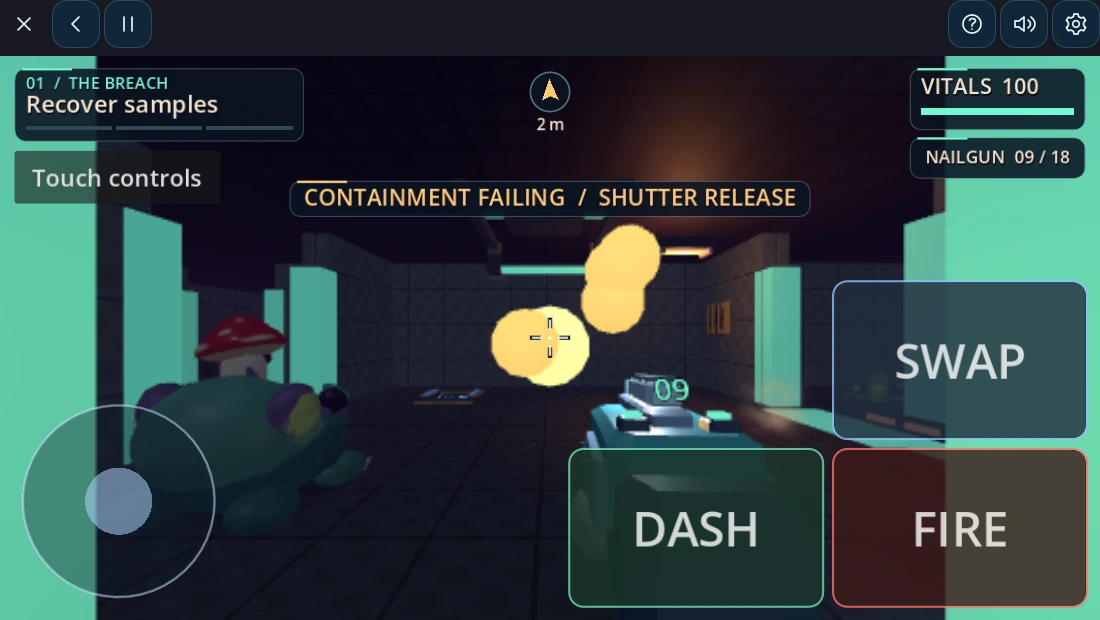
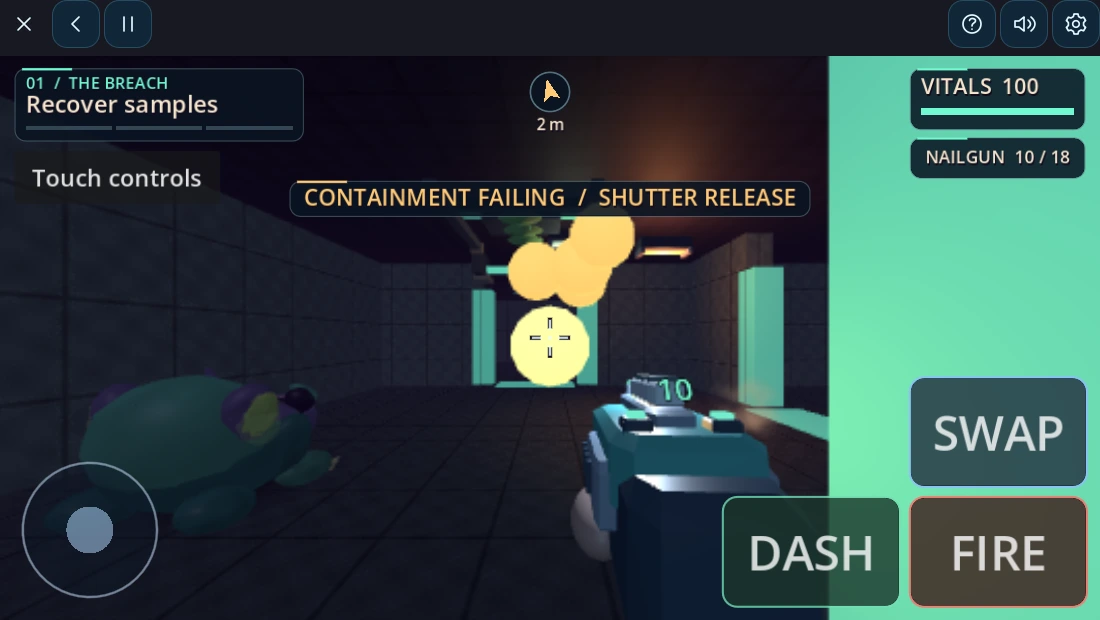
Refine OnKlav intro and refresh the gameplay gallery

diff --git a/README.md b/README.md
@@ -7,26 +7,30 @@
 *Pronounced “Enclave,” a protected, self-contained territory.*
 
 Give your Android phone a desktop of its own. Organize your everyday tools in one
-place, turn a live radio stream into a moving mandala, or play a bundled game when
-you're offline. OnKlav runs inside Android and includes both App and Game SDKs.
+place, listen to live radio streams from around the world and transform them into
+hypnotic visualizations, or play a bundled game offline. OnKlav runs inside Android
+and includes both App and Game SDKs.
 
-**[Download OnKlav for Android](https://github.com/JustTrySomthing/OnKlav/releases/download/v0.101.49-rc1/OnKlav-0.101.49-RC.apk)** · [Release notes and SDK downloads](https://github.com/JustTrySomthing/OnKlav/releases/tag/v0.101.49-rc1)
+**[Download OnKlav for Android · 133 MB APK](https://github.com/JustTrySomthing/OnKlav/releases/download/v0.101.49-rc1/OnKlav-0.101.49-RC.apk)** · [Release notes and SDK downloads](https://github.com/JustTrySomthing/OnKlav/releases/tag/v0.101.49-rc1)
 
-One signed APK includes **8 games and 39 built-in apps and tools**. This
-**0.101.49-rc1** prerelease supports ARM64 devices running Android 10 or newer.
+Start with the essentials in one optimized, signed APK. Get **39 built-in apps
+and tools** for messaging, browsing, files, listening, and editing, plus **8 games**.
+They’re ready to open after installation.
+
+This **0.101.49-rc1** prerelease supports ARM64 devices running Android 10 or newer.
 Download the APK, open it on Android, and follow the installation prompt.
 
 [See OnKlav in action](#see-onklav) · [Themes](#themes) · [Included games](#included-games) · [Included apps](#included-apps) · [Make, share, and install](#make-share-and-install)
 
 ## What to try first
 
-- **Make the desktop yours.** Organize apps into folders and share
-  [theme packages](docs/THEME-PACKAGES.md) with your own colors and wallpaper.
-- **Put on the radio.** Open Radio and choose Mandala in the visualizer
-  to watch layered patterns move with the audio.
-- **Play on the go.** Try a solo game offline, or invite a friend to an
+- **Set up your own space.** Put your favorite apps within reach and give the
+  desktop a look you can save and share with [theme packages](docs/THEME-PACKAGES.md).
+- **Find your next free read or listen.** Browse free ebooks from Project
+  Gutenberg in eBooks, or find free audiobooks from LibriVox in AudioBooks.
+- **Take a game with you.** Play a solo game offline, or invite a friend to an
   [SMS turn-based match](developer/games/SMS-TURNS.md) in supported titles.
-  Friend matches require compatible OnKlav installs and cellular SMS service.
+  Both players need compatible OnKlav installs and cellular SMS service.
 
 ## See OnKlav
 
@@ -34,12 +38,12 @@ Download the APK, open it on Android, and follow the installation prompt.
 
 | Shroom | Last Light Express |
 | :---: | :---: |
-| <a href="artwork/github-gameplay/shroom.webp"><img src="artwork/github-gameplay/shroom.webp" width="390" alt="Shroom first-person gameplay with glowing projectiles in a spore-infested corridor"></a> | <a href="artwork/github-gameplay/last-light-express.webp"><img src="artwork/github-gameplay/last-light-express.webp" width="390" alt="Lantern courier jumping between moving train cars in Last Light Express"></a> |
+| <a href="artwork/github-gameplay/shroom.webp"><img src="artwork/github-gameplay/shroom.webp" width="390" alt="Shroom gameplay with reduced-size touch controls and glowing shots in the breach"></a> | <a href="artwork/github-gameplay/last-light-express.webp"><img src="artwork/github-gameplay/last-light-express.webp" width="390" alt="Lantern courier jumping between moving train cars in Last Light Express"></a> |
 | Take on the outbreak one sector at a time. | Carry the last lantern across a moving train. |
 
 | Crash Test Panda | Radio with Mandala |
 | :---: | :---: |
-| <a href="artwork/github-gameplay/crash-test-panda.webp"><img src="artwork/github-gameplay/crash-test-panda.webp" width="210" alt="Crash Test Panda mid-demolition as a tower breaks apart and the score climbs"></a> | <a href="docs/evidence/radio-geometry-polish/visualizer-landscape-3.png"><img src="docs/evidence/radio-geometry-polish/visualizer-landscape-3.png" width="470" alt="Radio player with the blue Mandala visualizer, playback controls, and intensity slider"></a> |
+| <a href="artwork/github-gameplay/crash-test-panda.webp"><img src="artwork/github-gameplay/crash-test-panda.webp" width="320" alt="Crash Test Panda mid-demolition as a tower breaks apart and the score climbs"></a> | <a href="docs/evidence/radio-geometry-polish/visualizer-landscape-3.png"><img src="docs/evidence/radio-geometry-polish/visualizer-landscape-3.png" width="410" alt="Radio player with the blue Mandala visualizer, playback controls, and intensity slider"></a> |
 | Launch a panda and bring down the tower. | Tune in and watch the patterns move with the music. |
 
 *Gameplay captured from the shipped game exports in a browser. The Radio
